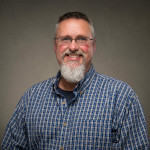
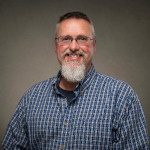
added new team member, increased resolution on some photos

diff --git a/src/components/team/AWTeam.jsx b/src/components/team/AWTeam.jsx
@@ -9,6 +9,7 @@ import Salini from '../../assets/images/salini-150X150.jpg';
 import Manuel from '../../assets/images/Jamarillo-150X150.jpg';
 import Jen from '../../assets/images/Jen-150X150.jpg';
 import Derek from '../../assets/images/DerekGodwin-150x150.jpg';
+import Sean from '../../assets/images/sean-higgens-150x150.jpg';
 
 const AWTeam = ({ team }) => {
     return (
@@ -116,6 +117,17 @@ const AWTeam = ({ team }) => {
                     at Oregon State University. She specializes in scientific software and web app development and is a developer for the Agricultural 
                     Water Management website. Jen has contributed to projects across a wide range of scientific fields including genomics, bioinformatics, 
                     geophysics, oceanography, epidemiology, psychology, demography, and digital cartography.
+                </Card>
+            </div>
+
+            <div className="flex-item" style={{ minWidth: 400, display: team == 'website' ? 'block':'none' }}>
+                <Card title="Sean Higgins" bordered={true} style={{ height: '100%' }}>
+                    <img src={Sean} alt="Sean Higgins" />
+                    Sean Higgins has recently received his Bachelor of Science in Computer Science at Oregon State University, 
+                    and he is delighted to begin utilizing his education towards the development of a Retrieval-Augmented Generation 
+                    Large-Language Model (RAG-LLM), an AI system that uses extra documents and resources to provide answers related to 
+                    agriculture and water use. He hopes that this system will be useful in providing helpful and accurate information 
+                    to those who have questions about agriculture and water use.
                 </Card>
             </div>
  
